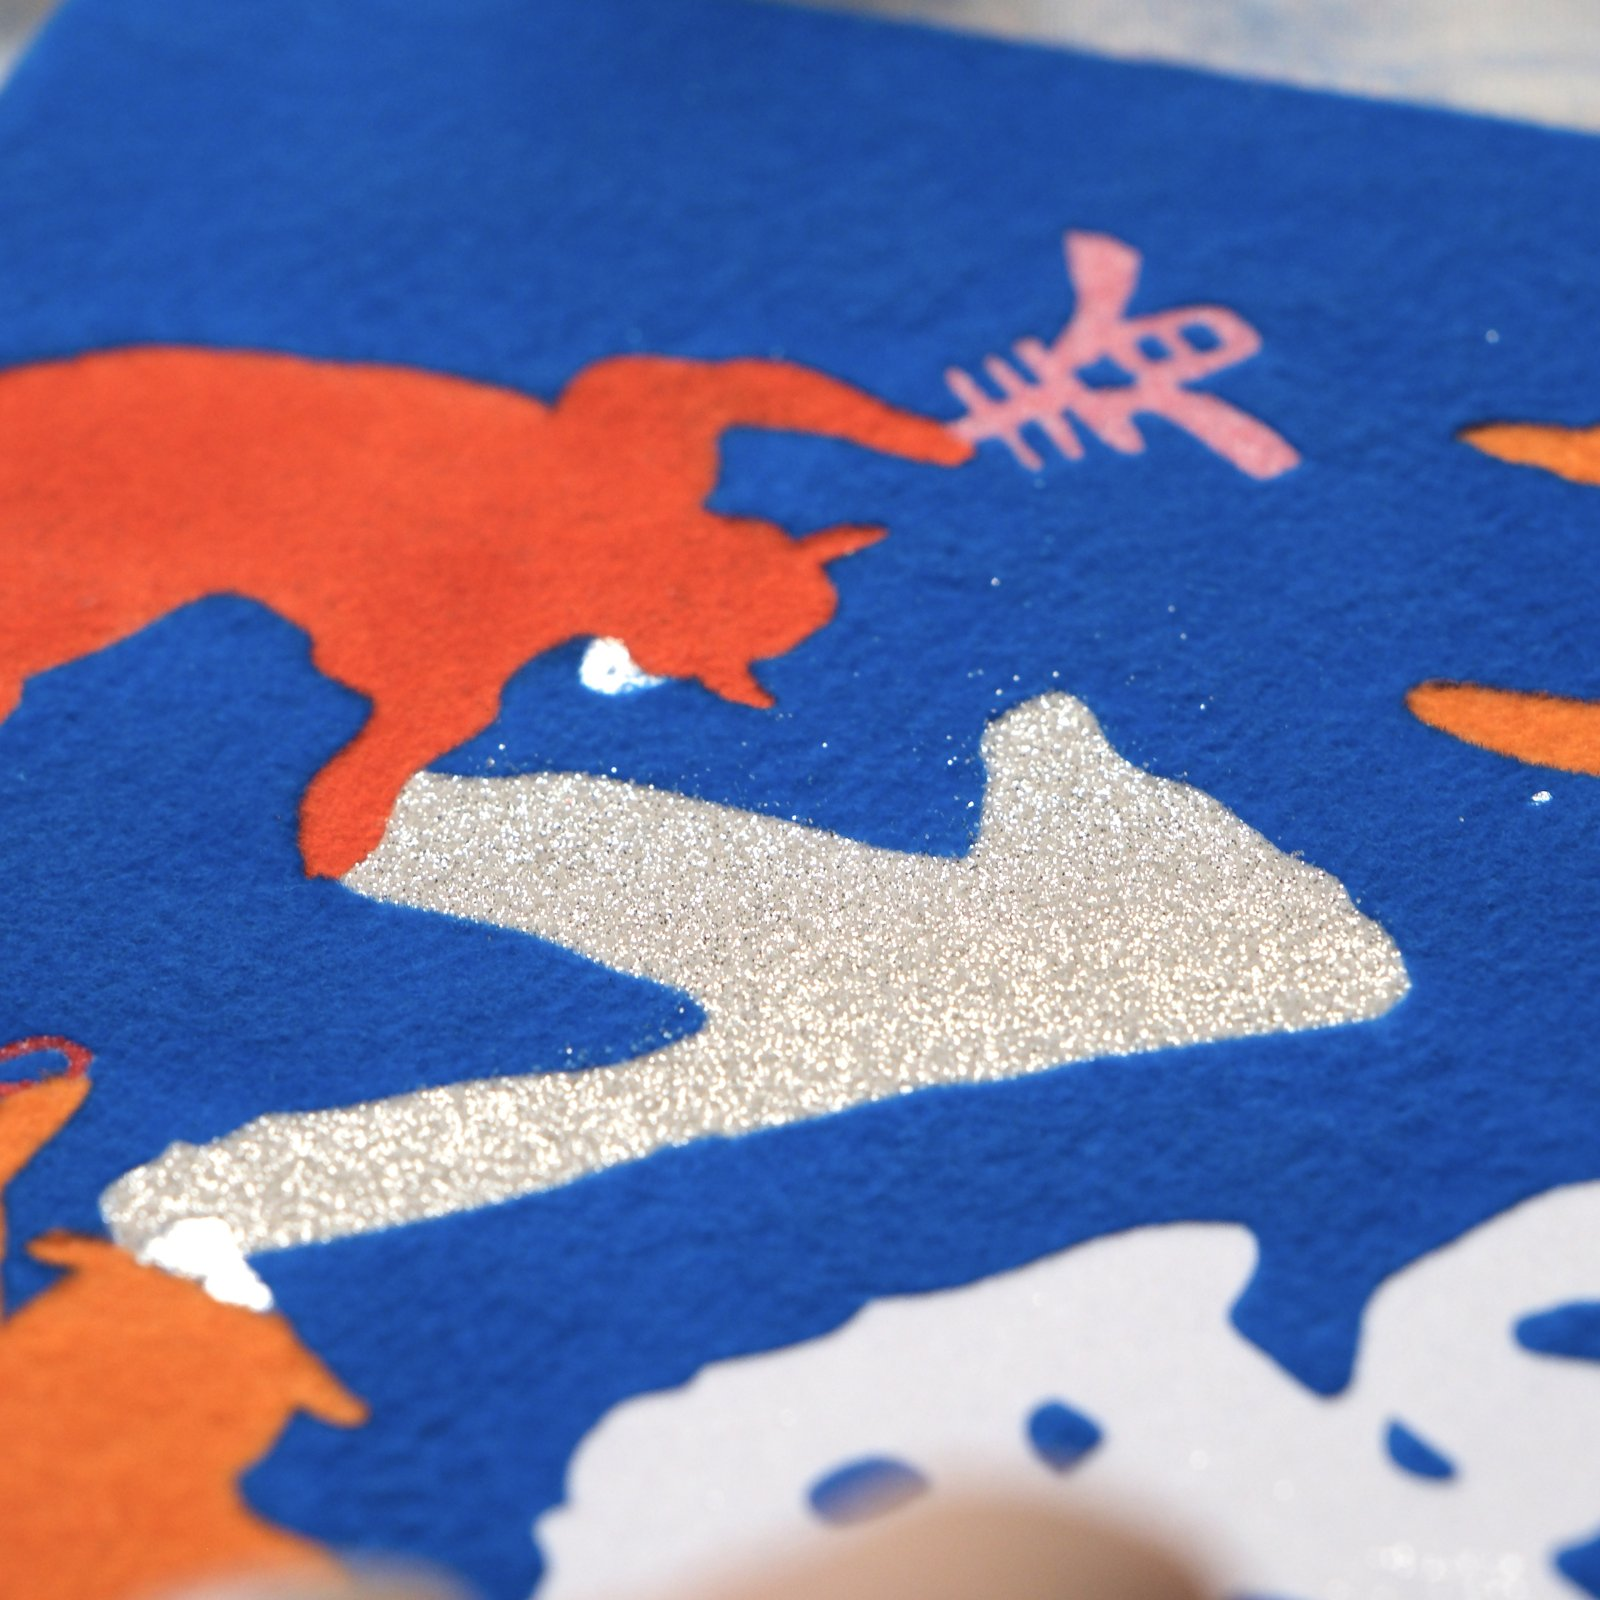
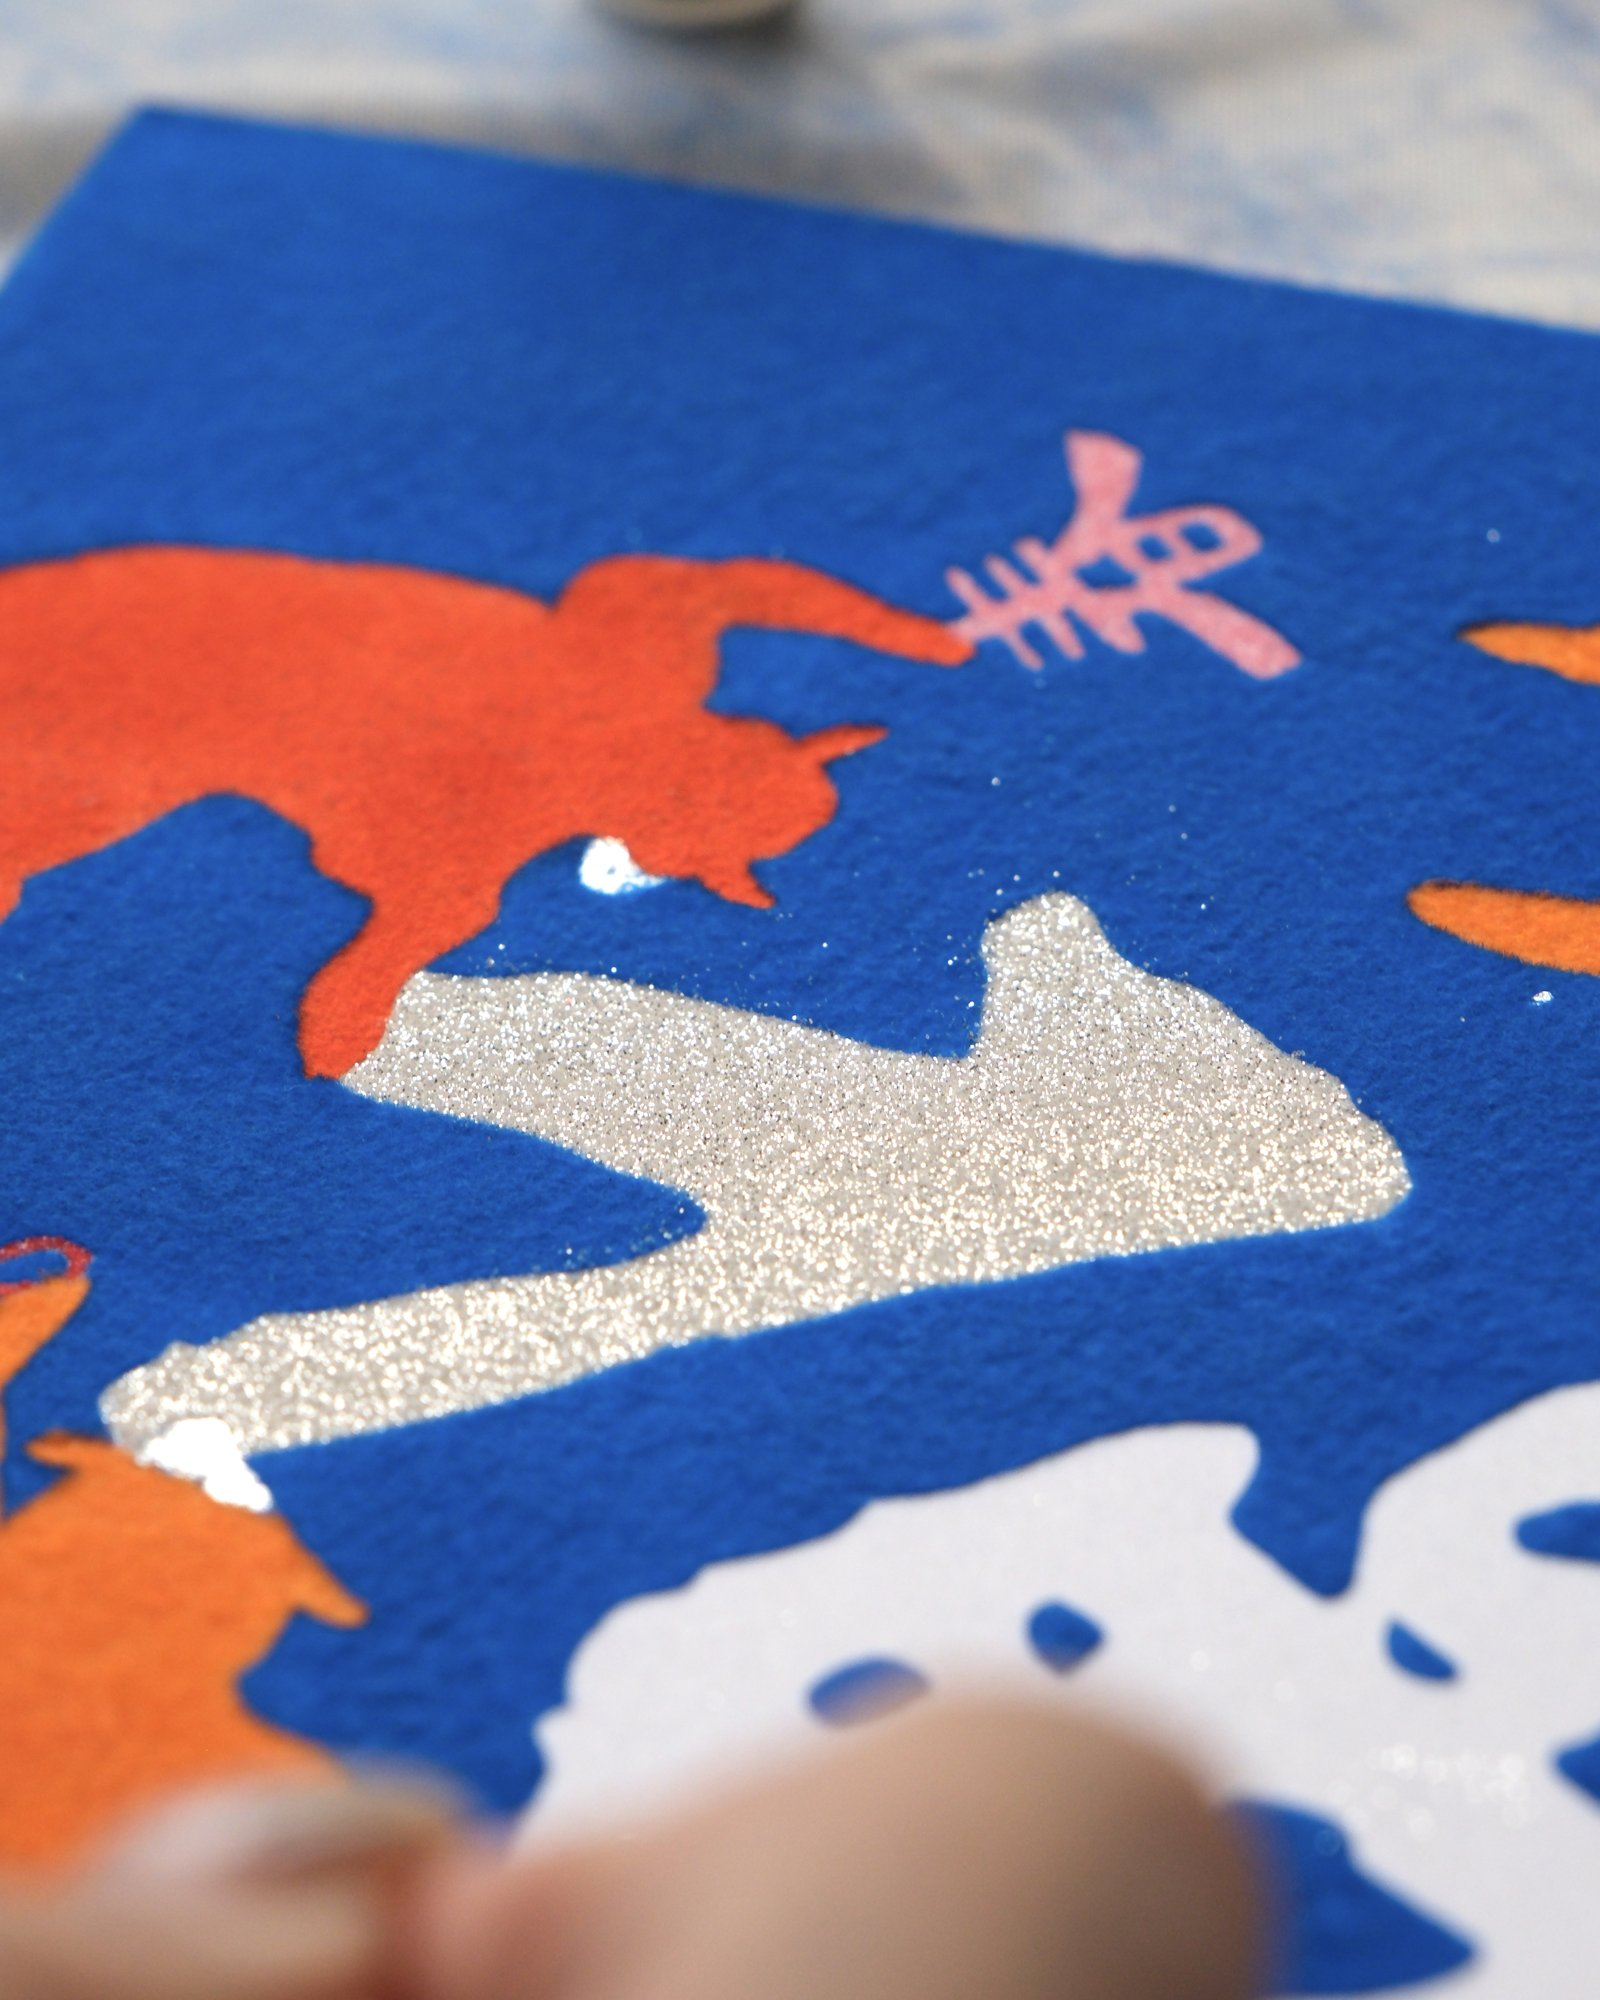
藍羊相片牆：倒數第二張移到第二張，主圖改回拍攝時的長方形構圖
「製作過程・收尾」從倒數第二張搬到第二張（緊接在成品主圖後面）。

相片牆主圖原本統一裁成 1:1 正方形，裁掉了客人實際拍攝時的直式長方形
構圖（相機原始比例約 4:5）。12 張照片改用接近原始比例的 4:5 重新
裁切（幾乎不裁，只去掉邊緣幾 px 湊整數比例），.work__gallery-main
新增 --rect 變體讓主圖顯示框跟著變成 4:5；縮圖列維持原本的正方形
60×60（object-fit:cover 本來就會裁出正方形，不受來源圖片比例影響，
不用另外處理）。只套用在藍羊，紅羊跟其他頁面的相片牆維持 1:1。

diff --git a/products/sand-art-artist-sheep-blue/index.html b/products/sand-art-artist-sheep-blue/index.html
@@ -157,26 +157,27 @@
            箭頭／滑動縮圖列後永久停止自動播放。藍款比紅款多絨毛砂、
            碎金箔、亮粉三種材質，縮圖裡刻意涵蓋到亮粉的鋪色／細節
            特寫，不是只有紅款那組材質的翻版。 -->
-      <div class="work__gallery fade-in" data-gallery>
+      <div class="work__gallery work__gallery--rect fade-in" data-gallery>
         <div class="work__gallery-main" data-gallery-main>
           <img src="../../assets/images/products/sand-art-artist/sand-art-artist-blue-main.jpg" alt="成品參考圖" width="1600" height="1600" loading="eager" class="is-active" data-gallery-frame>
-          <img src="../../assets/images/products/sand-art-artist/sand-art-artist-blue-gallery-02.jpg" alt="撕開貼紙過程" width="1600" height="1600" loading="lazy" data-gallery-frame>
-          <img src="../../assets/images/products/sand-art-artist/sand-art-artist-blue-gallery-03.jpg" alt="材料與成品合拍" width="1600" height="1600" loading="lazy" data-gallery-frame>
-          <img src="../../assets/images/products/sand-art-artist/sand-art-artist-blue-gallery-04.jpg" alt="銀箔細節操作" width="1600" height="1600" loading="lazy" data-gallery-frame>
-          <img src="../../assets/images/products/sand-art-artist/sand-art-artist-blue-gallery-05.jpg" alt="絨毛砂與金箔細節" width="1600" height="1600" loading="lazy" data-gallery-frame>
-          <img src="../../assets/images/products/sand-art-artist/sand-art-artist-blue-gallery-06.jpg" alt="細砂鋪色特寫" width="1600" height="1600" loading="lazy" data-gallery-frame>
-          <img src="../../assets/images/products/sand-art-artist/sand-art-artist-blue-gallery-07.jpg" alt="倒細砂過程" width="1600" height="1600" loading="lazy" data-gallery-frame>
-          <img src="../../assets/images/products/sand-art-artist/sand-art-artist-blue-gallery-08.jpg" alt="掃入亮粉過程" width="1600" height="1600" loading="lazy" data-gallery-frame>
-          <img src="../../assets/images/products/sand-art-artist/sand-art-artist-blue-gallery-09.jpg" alt="亮粉細節特寫" width="1600" height="1600" loading="lazy" data-gallery-frame>
-          <img src="../../assets/images/products/sand-art-artist/sand-art-artist-blue-gallery-10.jpg" alt="倒亮粉過程" width="1600" height="1600" loading="lazy" data-gallery-frame>
-          <img src="../../assets/images/products/sand-art-artist/sand-art-artist-blue-gallery-11.jpg" alt="絨毛砂草叢特寫" width="1600" height="1600" loading="lazy" data-gallery-frame>
-          <img src="../../assets/images/products/sand-art-artist/sand-art-artist-blue-gallery-12.jpg" alt="製作過程・收尾" width="1600" height="1600" loading="lazy" data-gallery-frame>
-          <img src="../../assets/images/products/sand-art-artist/sand-art-artist-blue-gallery-13.jpg" alt="完成品手持特寫" width="1600" height="1600" loading="lazy" data-gallery-frame>
+          <img src="../../assets/images/products/sand-art-artist/sand-art-artist-blue-gallery-12.jpg" alt="製作過程・收尾" width="1600" height="2000" loading="lazy" data-gallery-frame>
+          <img src="../../assets/images/products/sand-art-artist/sand-art-artist-blue-gallery-02.jpg" alt="撕開貼紙過程" width="1600" height="2000" loading="lazy" data-gallery-frame>
+          <img src="../../assets/images/products/sand-art-artist/sand-art-artist-blue-gallery-03.jpg" alt="材料與成品合拍" width="1600" height="2000" loading="lazy" data-gallery-frame>
+          <img src="../../assets/images/products/sand-art-artist/sand-art-artist-blue-gallery-04.jpg" alt="銀箔細節操作" width="1600" height="2000" loading="lazy" data-gallery-frame>
+          <img src="../../assets/images/products/sand-art-artist/sand-art-artist-blue-gallery-05.jpg" alt="絨毛砂與金箔細節" width="1600" height="2000" loading="lazy" data-gallery-frame>
+          <img src="../../assets/images/products/sand-art-artist/sand-art-artist-blue-gallery-06.jpg" alt="細砂鋪色特寫" width="1600" height="2000" loading="lazy" data-gallery-frame>
+          <img src="../../assets/images/products/sand-art-artist/sand-art-artist-blue-gallery-07.jpg" alt="倒細砂過程" width="1600" height="2000" loading="lazy" data-gallery-frame>
+          <img src="../../assets/images/products/sand-art-artist/sand-art-artist-blue-gallery-08.jpg" alt="掃入亮粉過程" width="1600" height="2000" loading="lazy" data-gallery-frame>
+          <img src="../../assets/images/products/sand-art-artist/sand-art-artist-blue-gallery-09.jpg" alt="亮粉細節特寫" width="1600" height="2000" loading="lazy" data-gallery-frame>
+          <img src="../../assets/images/products/sand-art-artist/sand-art-artist-blue-gallery-10.jpg" alt="倒亮粉過程" width="1600" height="2000" loading="lazy" data-gallery-frame>
+          <img src="../../assets/images/products/sand-art-artist/sand-art-artist-blue-gallery-11.jpg" alt="絨毛砂草叢特寫" width="1600" height="2000" loading="lazy" data-gallery-frame>
+          <img src="../../assets/images/products/sand-art-artist/sand-art-artist-blue-gallery-13.jpg" alt="完成品手持特寫" width="1600" height="2000" loading="lazy" data-gallery-frame>
         </div>
         <div class="work__gallery-strip-wrap">
           <button type="button" class="work__gallery-nav work__gallery-nav--prev" data-gallery-nav="-1" aria-label="上一張"><svg viewBox="0 0 24 24" width="16" height="16" fill="none" stroke="currentColor" stroke-width="2" stroke-linecap="round" stroke-linejoin="round" aria-hidden="true"><path d="M15 18l-6-6 6-6"/></svg></button>
           <div class="work__gallery-thumbs" data-gallery-thumbs>
             <button type="button" class="work__gallery-thumb is-active" data-gallery-thumb aria-label="切換到：成品參考圖"><img src="../../assets/images/products/sand-art-artist/sand-art-artist-blue-main.jpg" alt="" loading="lazy"></button>
+            <button type="button" class="work__gallery-thumb" data-gallery-thumb aria-label="切換到：製作過程・收尾"><img src="../../assets/images/products/sand-art-artist/sand-art-artist-blue-gallery-12.jpg" alt="" loading="lazy"></button>
             <button type="button" class="work__gallery-thumb" data-gallery-thumb aria-label="切換到：撕開貼紙過程"><img src="../../assets/images/products/sand-art-artist/sand-art-artist-blue-gallery-02.jpg" alt="" loading="lazy"></button>
             <button type="button" class="work__gallery-thumb" data-gallery-thumb aria-label="切換到：材料與成品合拍"><img src="../../assets/images/products/sand-art-artist/sand-art-artist-blue-gallery-03.jpg" alt="" loading="lazy"></button>
             <button type="button" class="work__gallery-thumb" data-gallery-thumb aria-label="切換到：銀箔細節操作"><img src="../../assets/images/products/sand-art-artist/sand-art-artist-blue-gallery-04.jpg" alt="" loading="lazy"></button>
@@ -187,7 +188,6 @@
             <button type="button" class="work__gallery-thumb" data-gallery-thumb aria-label="切換到：亮粉細節特寫"><img src="../../assets/images/products/sand-art-artist/sand-art-artist-blue-gallery-09.jpg" alt="" loading="lazy"></button>
             <button type="button" class="work__gallery-thumb" data-gallery-thumb aria-label="切換到：倒亮粉過程"><img src="../../assets/images/products/sand-art-artist/sand-art-artist-blue-gallery-10.jpg" alt="" loading="lazy"></button>
             <button type="button" class="work__gallery-thumb" data-gallery-thumb aria-label="切換到：絨毛砂草叢特寫"><img src="../../assets/images/products/sand-art-artist/sand-art-artist-blue-gallery-11.jpg" alt="" loading="lazy"></button>
-            <button type="button" class="work__gallery-thumb" data-gallery-thumb aria-label="切換到：製作過程・收尾"><img src="../../assets/images/products/sand-art-artist/sand-art-artist-blue-gallery-12.jpg" alt="" loading="lazy"></button>
             <button type="button" class="work__gallery-thumb" data-gallery-thumb aria-label="切換到：完成品手持特寫"><img src="../../assets/images/products/sand-art-artist/sand-art-artist-blue-gallery-13.jpg" alt="" loading="lazy"></button>
           </div>
           <button type="button" class="work__gallery-nav work__gallery-nav--next" data-gallery-nav="1" aria-label="下一張"><svg viewBox="0 0 24 24" width="16" height="16" fill="none" stroke="currentColor" stroke-width="2" stroke-linecap="round" stroke-linejoin="round" aria-hidden="true"><path d="M9 6l6 6-6 6"/></svg></button>

diff --git a/css/products.css b/css/products.css
@@ -627,6 +627,17 @@
   background: var(--color-surface-light);
 }
 
+/* 藍羊相片牆：客人實際拍攝時是直式長方形構圖（相機原始比例接近
+   4:5），裁成正方形主圖會切掉構圖上下的留白。改成主圖維持 4:5 直式
+   長方形，縮圖列仍然維持正方形（.work__gallery-thumb 本來就是固定
+   60×60，object-fit:cover 自動裁出正方形縮圖，不用另外處理）——只有
+   「上方大圖」需要改比例，縮圖格狀排列本身跟長方形圖片混排會參差
+   不齊，維持正方形縮圖比較整齊。只在藍羊這個 .work__gallery--rect
+   變體套用，紅羊跟其他頁面的 .work__gallery 維持原本 1:1。 */
+.work__gallery--rect .work__gallery-main {
+  aspect-ratio: 4 / 5;
+}
+
 .work__gallery-main img {
   position: absolute;
   inset: 0;
